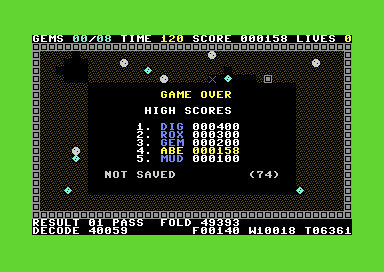
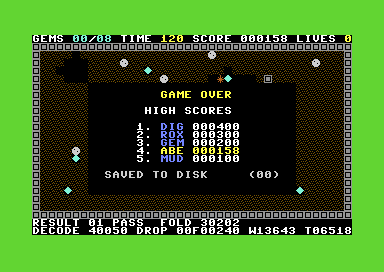
#39: action-puzzle, the comparison's fixes and ports land

diff --git a/CHANGELOG.md b/CHANGELOG.md
@@ -7,6 +7,18 @@ Entries below start at the first public audit; earlier history is in git.
 
 Data 766, schema 31, tools 2.3.0, package 0.16.0.
 
+**Issue #39: `action-puzzle` hardened after the other session's
+comparison.**
+- The redraw is bounded. An overflowing dirty list used to redraw 280
+  cells in one frame (55,305 cycles); rows are now queued, two a frame.
+- The right roll, the restart path over three lives, the high-score
+  read-back and the once-per-scan check are all gated. Each is proved
+  by a mutation.
+- Dropped frames are counted from the `$D019` raster latch.
+- It builds and passes on the released Oscar64 v1.32.273.
+- Staged worst frame (16 boulders falling in one slice): 13,619 PAL /
+  13,832 NTSC cycles.
+
 **Issue #39: the `demo` starter lands, and the two stub skeletons are
 removed.** `templates/demo` is pure KickAssembler:
 - a part table with init, update, out step and teardown, and a
